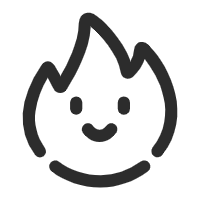
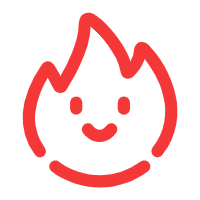
feat: button组件默认按钮以及文档重新设计

diff --git a/packages/sparke-ui/src/Button/Button.tsx b/packages/sparke-ui/src/Button/Button.tsx
@@ -23,10 +23,7 @@ export const props = {
   },
 
   // 朴素属性
-  plain: {
-    type: Boolean,
-    default: false,
-  },
+  plain: Boolean,
 
   // 大小属性
   size: {
@@ -35,10 +32,7 @@ export const props = {
   },
 
   // 圆弧属性
-  round: {
-    type: Boolean,
-    default: false,
-  },
+  round: Boolean,
 
   // 图标属性
   icon: {
@@ -70,23 +64,43 @@ export default defineComponent({
     };
     return () => (
       <button
-        class={` 
-      py-${size[props.size].y} 
-      px-${size[props.size].x} 
-      ${props.round ? "rounded-full" : "rounded-sm"} 
-      bg-${props.color}-${props.plain ? "100" : "500"} 
-      hover:bg-${props.color}-${props.plain ? "500" : "400"} 
-      border-${props.color}-${props.plain ? "200" : "500"} 
-      cursor-pointer 
-      border-solid 
-      border 
-      text-${props.plain ? props.color + "-500" : "white"} 
-      text-${size[props.size].text} 
-      hover:text-white 
-      hover:border-transparent
-      transition duration-300 ease-in-out 
-      m-2 
-      `}
+        class={
+          props.color !== "white"
+            ? ` 
+            py-${size[props.size].y} 
+            px-${size[props.size].x} 
+            ${props.round ? "rounded-full" : "rounded-sm"} 
+            bg-${props.color}-${props.plain ? "100" : "500"} 
+            hover:bg-${props.color}-${props.plain ? "500" : "400"} 
+            border-${props.color}-${props.plain ? "200" : "500"} 
+            cursor-pointer 
+            border-solid 
+            border 
+            text-${props.plain ? props.color + "-500" : "white"} 
+            text-${size[props.size].text} 
+            hover:text-white 
+            hover:border-transparent
+            transition duration-300 ease-in-out 
+            m-2 
+            `
+            : `
+            py-${size[props.size].y} 
+            px-${size[props.size].x} 
+            ${props.round ? "rounded-full" : "rounded-sm"} 
+            bg-white 
+            hover:bg-blue-${props.plain ? "0" : "100"}
+            border-gray
+            cursor-pointer 
+            border-solid 
+            border 
+            text-gray-600
+            text-${size[props.size].text} 
+            hover:text-blue 
+            hover:border-blue-${props.plain ? "500" : "200"}
+            transition duration-300 ease-in-out 
+            m-2 
+            `
+        }
       >
         {props.icon !== "" ? (
           <i class={`i-ic-baseline-${props.icon} p-2`}></i>

diff --git a/packages/sparke-ui/src/button/Button.tsx b/packages/sparke-ui/src/button/Button.tsx
@@ -23,10 +23,7 @@ export const props = {
   },
 
   // 朴素属性
-  plain: {
-    type: Boolean,
-    default: false,
-  },
+  plain: Boolean,
 
   // 大小属性
   size: {
@@ -35,10 +32,7 @@ export const props = {
   },
 
   // 圆弧属性
-  round: {
-    type: Boolean,
-    default: false,
-  },
+  round: Boolean,
 
   // 图标属性
   icon: {
@@ -70,23 +64,43 @@ export default defineComponent({
     };
     return () => (
       <button
-        class={` 
-      py-${size[props.size].y} 
-      px-${size[props.size].x} 
-      ${props.round ? "rounded-full" : "rounded-sm"} 
-      bg-${props.color}-${props.plain ? "100" : "500"} 
-      hover:bg-${props.color}-${props.plain ? "500" : "400"} 
-      border-${props.color}-${props.plain ? "200" : "500"} 
-      cursor-pointer 
-      border-solid 
-      border 
-      text-${props.plain ? props.color + "-500" : "white"} 
-      text-${size[props.size].text} 
-      hover:text-white 
-      hover:border-transparent
-      transition duration-300 ease-in-out 
-      m-2 
-      `}
+        class={
+          props.color !== "white"
+            ? ` 
+            py-${size[props.size].y} 
+            px-${size[props.size].x} 
+            ${props.round ? "rounded-full" : "rounded-sm"} 
+            bg-${props.color}-${props.plain ? "100" : "500"} 
+            hover:bg-${props.color}-${props.plain ? "500" : "400"} 
+            border-${props.color}-${props.plain ? "200" : "500"} 
+            cursor-pointer 
+            border-solid 
+            border 
+            text-${props.plain ? props.color + "-500" : "white"} 
+            text-${size[props.size].text} 
+            hover:text-white 
+            hover:border-transparent
+            transition duration-300 ease-in-out 
+            m-2 
+            `
+            : `
+            py-${size[props.size].y} 
+            px-${size[props.size].x} 
+            ${props.round ? "rounded-full" : "rounded-sm"} 
+            bg-white 
+            hover:bg-blue-${props.plain ? "0" : "100"}
+            border-gray
+            cursor-pointer 
+            border-solid 
+            border 
+            text-gray-600
+            text-${size[props.size].text} 
+            hover:text-blue 
+            hover:border-blue-${props.plain ? "500" : "200"}
+            transition duration-300 ease-in-out 
+            m-2 
+            `
+        }
       >
         {props.icon !== "" ? (
           <i class={`i-ic-baseline-${props.icon} p-2`}></i>

diff --git a/packages/sparke-ui/docs/.vitepress/config.ts b/packages/sparke-ui/docs/.vitepress/config.ts
@@ -3,10 +3,10 @@ import { demoBlockPlugin } from "vitepress-theme-demoblock";
 
 const guideSidebar = [
   {
-    text: "基础",
+    text: "介绍",
     items: [
       {
-        text: "快速开始",
+        text: "Sparke UI是什么",
         link: "/guide/",
       },
     ],
@@ -15,8 +15,8 @@ const guideSidebar = [
 
 const sidebar = [
   {
-    text: "基础",
-    items: [{ text: "快速开始", link: "/guide/" }],
+    text: "介绍",
+    items: [{ text: "Sparke UI是什么", link: "/guide/" }],
   },
   {
     text: "组件",
@@ -32,8 +32,13 @@ export default defineConfig({
 
     // 社交链接
     socialLinks: [
-      { icon: "github", link: "https://github.com/XwenHaHa/sparke-ui" },
+      { icon: "github", link: "https://github.com/XwenHaHa" },
     ],
+
+    footer: {
+      message: `MIT License`,
+      copyright: `Copyright (c) 2023-present Wen(Xwen)HaiJing`
+    },
 
     // 导航栏
     nav: [

diff --git a/packages/sparke-ui/config/unocss.ts b/packages/sparke-ui/config/unocss.ts
@@ -17,12 +17,16 @@ const safelist = [
   ...colors.map((v) => `bg-${v}-100`),
   ...colors.map((v) => `bg-${v}-500`),
   ...colors.map((v) => `hover:bg-${v}-100`),
+  ...colors.map((v) => `hover:bg-${v}-200`),
   ...colors.map((v) => `hover:bg-${v}-400`),
   ...colors.map((v) => `hover:bg-${v}-500`),
+  ...colors.map((v) => `hover:border-${v}-200`),
+  ...colors.map((v) => `hover:border-${v}-500`),
   ...colors.map((v) => `border-${v}-200`),
   ...colors.map((v) => `border-${v}-300`),
   ...colors.map((v) => `border-${v}-500`),
   ...colors.map((v) => `text-${v}-500`),
+  ...colors.map((v) => `text-${v}-600`),
   "text-white",
   ...Array.from({ length: 8 }, (_, i) => `px-${i + 1}`),
   ...Array.from({ length: 8 }, (_, i) => `py-${i + 1}`),

diff --git a/packages/sparke-ui/docs/.vitepress/theme/style/demoblock.scss b/packages/sparke-ui/docs/.vitepress/theme/style/demoblock.scss
@@ -28,6 +28,7 @@
 .vp-doc div[class*="language-vue"] {
   background-color: var(--vp-code-vue-bg);
 }
+
 .vp-doc [class*="language-vue"] code {
   color: var(--vp-code-vue-color);
 }

diff --git a/packages/sparke-ui/docs/components/button/index.md b/packages/sparke-ui/docs/components/button/index.md
@@ -4,7 +4,7 @@
 
 ## 基础用法
 
-使用`size`、`color`、`pain`、`round`属性来定义 Button 的样式。
+使用`size`、`color`、`plain`、`round`属性来定义 Button 的样式。
 
 :::demo
 
@@ -19,20 +19,20 @@
     <SButton color="red">红色按钮</SButton>
   </div>
   <div style="margin-bottom:20px;">
-    <SButton plain>默认按钮</SButton>
-    <SButton color="blue" plain>朴素按钮</SButton>
+    <SButton plain>朴素按钮</SButton>
+    <SButton color="blue" plain>主要按钮</SButton>
     <SButton color="green" plain>绿色按钮</SButton>
     <SButton color="gray" plain>灰色按钮</SButton>
     <SButton color="yellow" plain>黄色按钮</SButton>
     <SButton color="red" plain>红色按钮</SButton>
   </div>
   <div style="margin-bottom:20px;">
-    <SButton color="blue" size="small" plain>小按钮</SButton>
-    <SButton color="blue" size="medium" plain>中按钮</SButton>
-    <SButton color="blue" size="large" plain>大按钮</SButton>
+    <SButton size="small">小按钮</SButton>
+    <SButton size="medium">中按钮</SButton>
+    <SButton size="large">大按钮</SButton>
   </div>
   <div style="margin-bottom:20px;">
-    <SButton round plain>默认按钮</SButton>
+    <SButton round>默认按钮</SButton>
     <SButton color="blue" round plain icon="search">搜索按钮</SButton>
     <SButton color="green" round plain icon="edit">编辑按钮</SButton>
     <SButton color="gray" round plain icon="check">成功按钮</SButton>
@@ -40,11 +40,12 @@
     <SButton color="red" round plain icon="delete">删除按钮</SButton>
   </div>
   <div style="margin-bottom:20px;">
-    <SButton round plain icon="search"></SButton>
-    <SButton color="blue" round plain icon="edit"></SButton>
-    <SButton color="green" round plain icon="check"></SButton>
-    <SButton color="gray" round plain icon="message"></SButton>
-    <SButton color="yellow" round plain icon="delete"></SButton>
+    <SButton round icon="search"></SButton>
+    <SButton color="blue" round icon="edit"></SButton>
+    <SButton color="green" round icon="check"></SButton>
+    <SButton color="gray" round icon="message"></SButton>
+    <SButton color="yellow" round icon="star"></SButton>
+    <SButton color="red" round icon="delete"></SButton>
   </div>
 </template>
 ```
@@ -60,11 +61,11 @@
 ```vue
 <template>
   <div class="flex flex-row">
-    <SButton color="blue" plain icon="edit"></SButton>
-    <SButton color="blue" plain icon="share"></SButton>
-    <SButton color="blue" plain icon="delete"></SButton>
-    <SButton color="blue" plain icon="search">搜索按钮</SButton>
-    <SButton color="blue" plain icon="upload">上传按钮</SButton>
+    <SButton color="blue" icon="edit"></SButton>
+    <SButton color="blue" icon="share"></SButton>
+    <SButton color="blue" icon="delete"></SButton>
+    <SButton color="blue" icon="search">搜索按钮</SButton>
+    <SButton color="blue" icon="upload">上传按钮</SButton>
   </div>
 </template>
 ```

diff --git a/packages/sparke-ui/docs/guide/index.md b/packages/sparke-ui/docs/guide/index.md
@@ -1,3 +1,46 @@
-# Hello World
+<p align="center">
+<img src="../public/fire.png" style="width:200px;" />
+</p>
 
-Im Xwen
+<h1 align="center">Sparke-UI</h1>
+
+<p align="center">
+基于Vite构建的轻量级Vue3组件库
+</p>
+
+<br>
+
+## 特性
+
+探索前端工程化的组件库项目
+
+- ⚡ 基于 Vite + Vue3 + TypeScript 进行开发
+- 💪 采用 Monorepo 进行管理 (pnpm workspace)
+- 🌟 同时支持 JSX 与 Vue 单文件组件
+- 🔍 使用 Eslint + Prettier + Husky 进行语法检查
+- 🔨Vitepress + Vercel 进行文档网站搭建
+- 🤝 基于 Action CI 实现持续集成与交付
+
+## 安装
+
+```bash
+#npm
+npm install sparke-ui
+
+#yarn
+yarn add sparke-ui
+
+#pnpm
+pnpm install sparke-ui
+```
+
+## 快速开始
+
+```js
+import Vue from "vue";
+import SparkeUI from "sparke-ui";
+const App = {
+  template: `<SButton/>`,
+};
+createApp(App).use(SparkeUI).mount('#app')
+```

diff --git a/packages/sparke-ui/docs/index.md b/packages/sparke-ui/docs/index.md
@@ -10,12 +10,12 @@ hero:
     alt: VitePress
   actions:
     - theme: brand
-      text: Get Started
+      text: 开始体验
       link: /guide/
     - theme: alt
-      text: View on GitHub
+      text: 在GitHub上查看
       link: https://github.com/XwenHaHa/sparke-ui
-  
+
 features:
   - icon: ⚡
     title: 支持Vite
